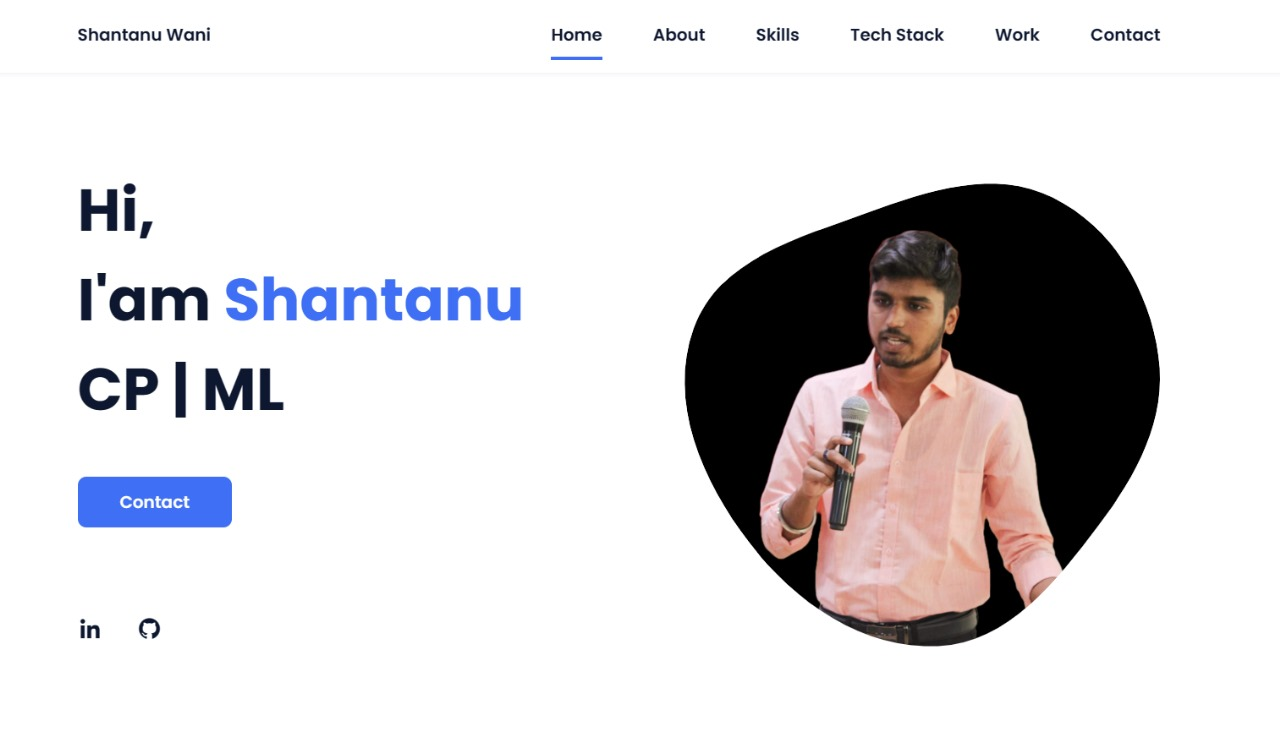
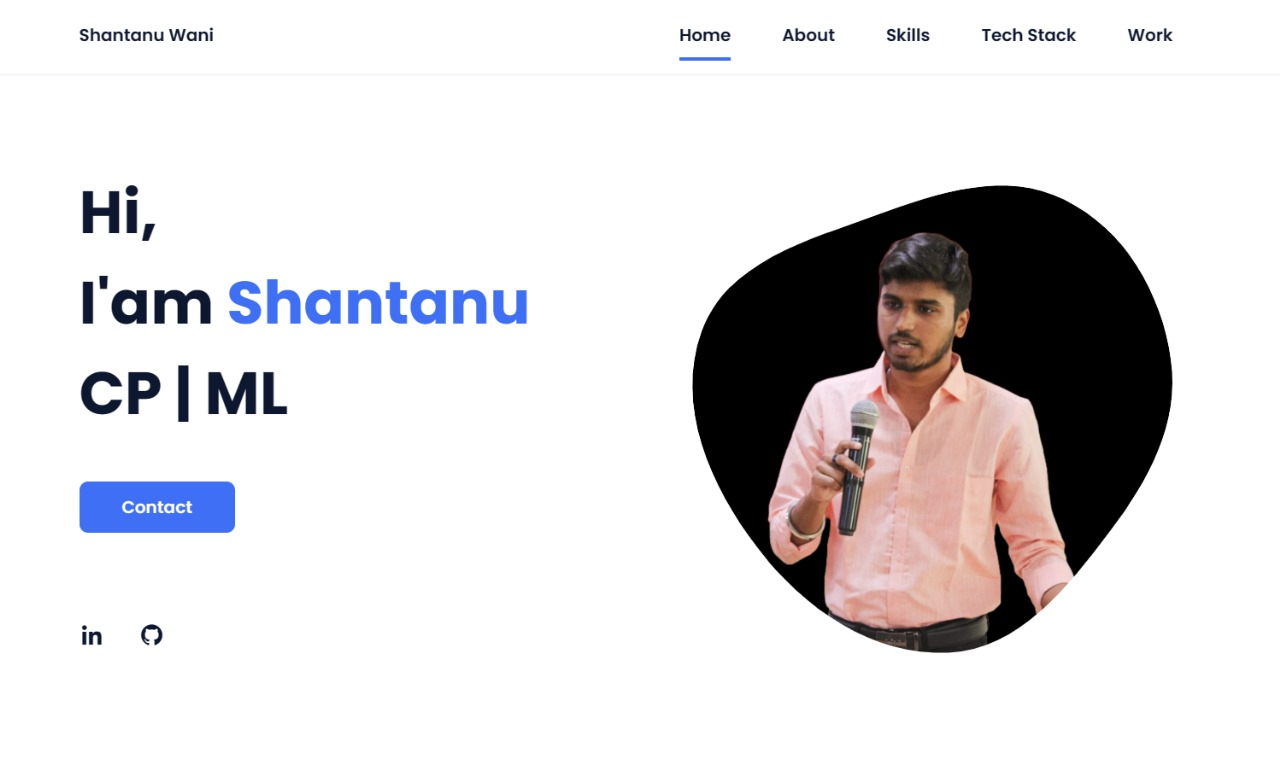
new updates

diff --git a/index.html b/index.html
@@ -23,7 +23,6 @@
                         <li class="nav__item"><a href="#skills" class="nav__link">Skills</a></li>
                         <li class="nav__item"><a href="#skills-tech" class="nav__link">Tech Stack</a></li>
                         <li class="nav__item"><a href="#work" class="nav__link">Work</a></li>
-                        <li class="nav__item"><a href="#contact" class="nav__link">Contact</a></li>
                     </ul>
                 </div>
                 <div class="nav__toggle" id="nav-toggle">
@@ -37,7 +36,7 @@
             <section class="home bd-grid" id="home">
                 <div class="home__data">
                     <h1 class="home__title">Hi,<br>I'am <span class="home__title-color">Shantanu</span><br>CP | ML</h1>
-                    <a href="#footerid" class="button">Contact</a>
+                    <a href="#contact" class="button">Contact</a>
                 </div>
                 <div class="home__social">
                     <a href="https://www.linkedin.com/in/shantanuwani/" class="home__social-icon"><i class='bx bxl-linkedin'></i></a>
@@ -240,7 +239,7 @@
                     <form action="" class="contact__form">
                         <input type="text" placeholder="Name" class="contact__input">
                         <input type="mail" placeholder="Email" class="contact__input">
-                        <textarea name="" id="" cols="0" rows="10" class="contact__input"></textarea>
+                        <textarea type="text" name="" id="" cols="0" placeholder="Please write your queries here.." rows="10" class="contact__input"></textarea>
                         <input type="button" value="Send" class="contact__button button">
                     </form>
                 </div>
@@ -250,11 +249,13 @@
         <!--===== FOOTER =====-->
         <footer class="footer" id="footerid">
             <p class="footer__title">Shantanu Wani</p>
+            <p class="contact-heading">Connect With Me</p><br>
             <div class="footer__social">
                 <a href="https://github.com/Shaan2522" class="footer__icon"><i class='bx bxl-github' ></i></a>
                 <a href="https://www.linkedin.com/in/shantanuwani/" class="footer__icon"><i class='bx bxl-linkedin' ></i></a>
                 <a href="https://www.instagram.com/theshantanu27?igsh=MTZndmJuc3QxcWlsZQ%3D%3D" class="footer__icon"><i class='bx bxl-instagram' ></i></a>
                 <a href="https://x.com/ShaantanuWani?t=olNO62GT4nCLA_dpxnXdUQ&s=09" class="footer__icon"><i class='bx bxl-twitter' ></i></a>
+                <a href="mailto:shantanu2522@gmail.com" class="footer__icon"><i class='bx bxs-envelope' ></i></a>
             </div>
             <p class="footer__copy">&#169;2024 All rights reserved</p>
         </footer>
